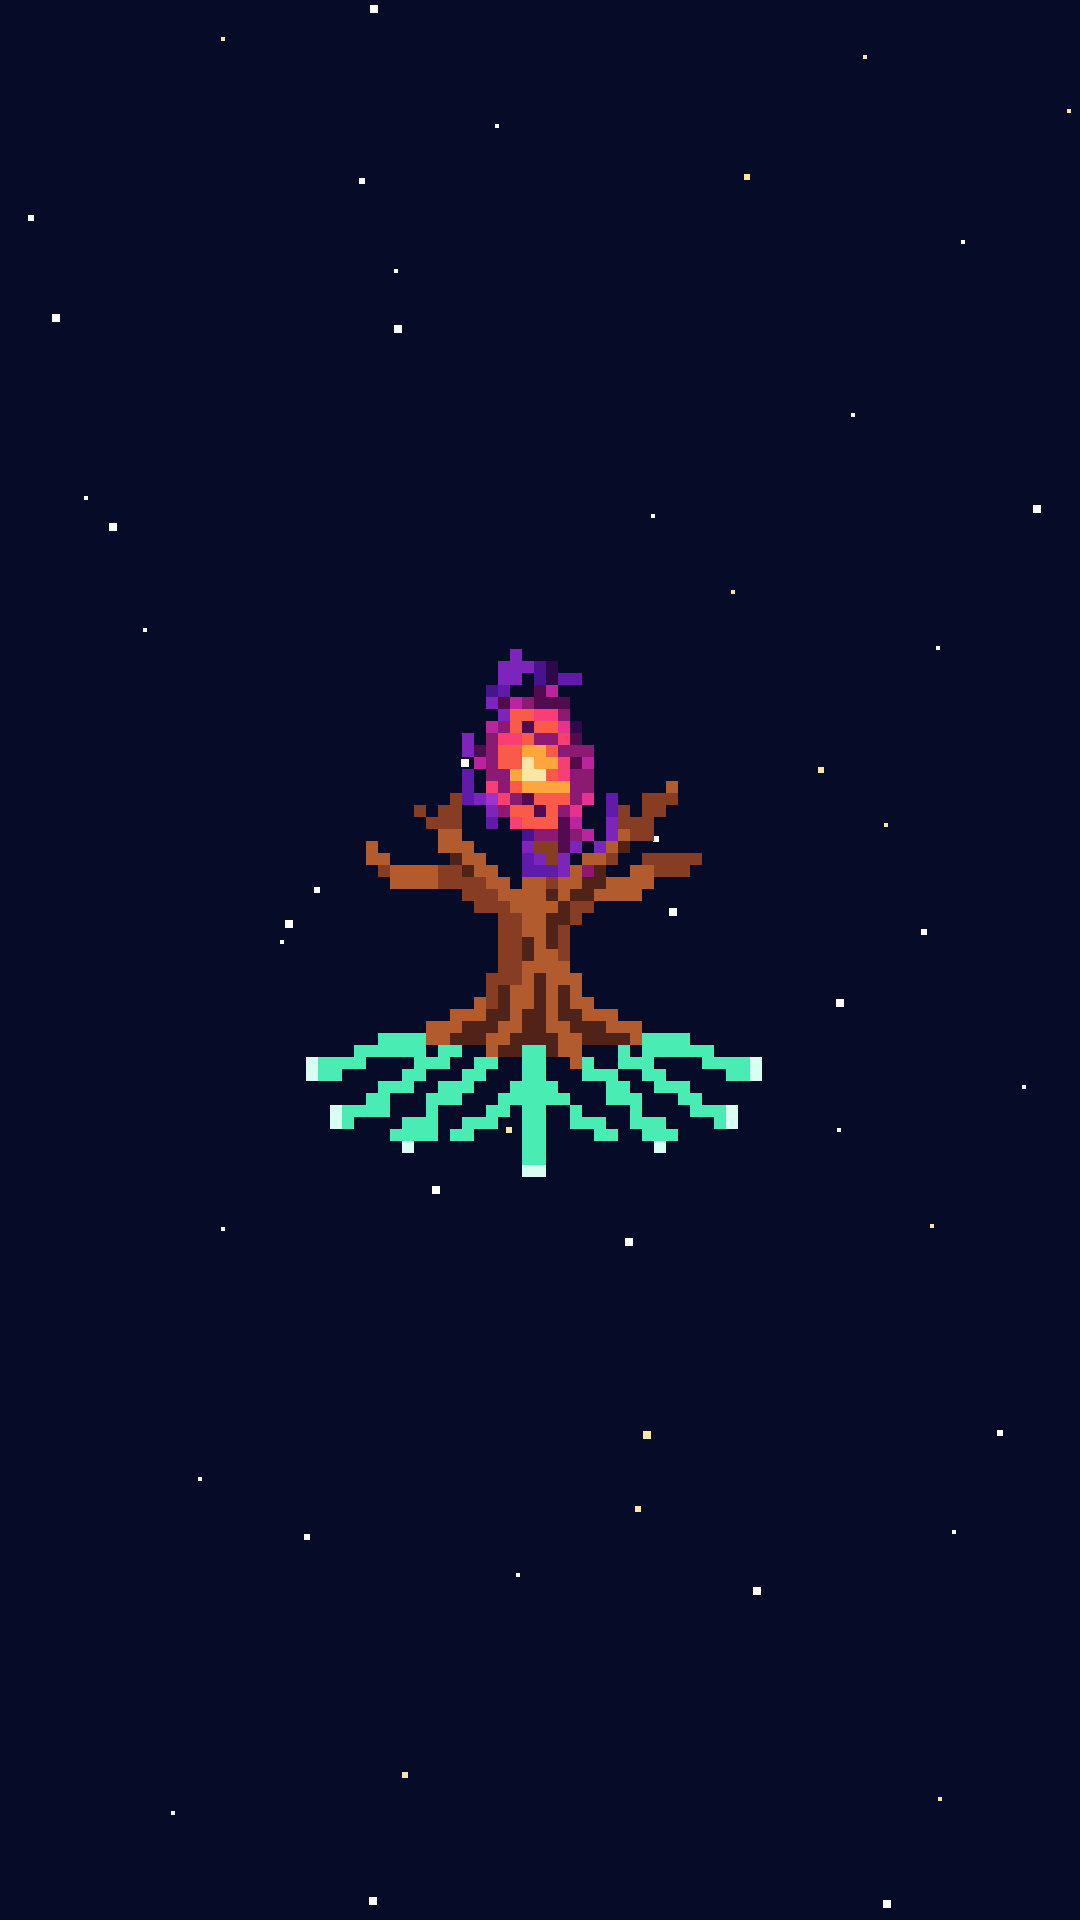
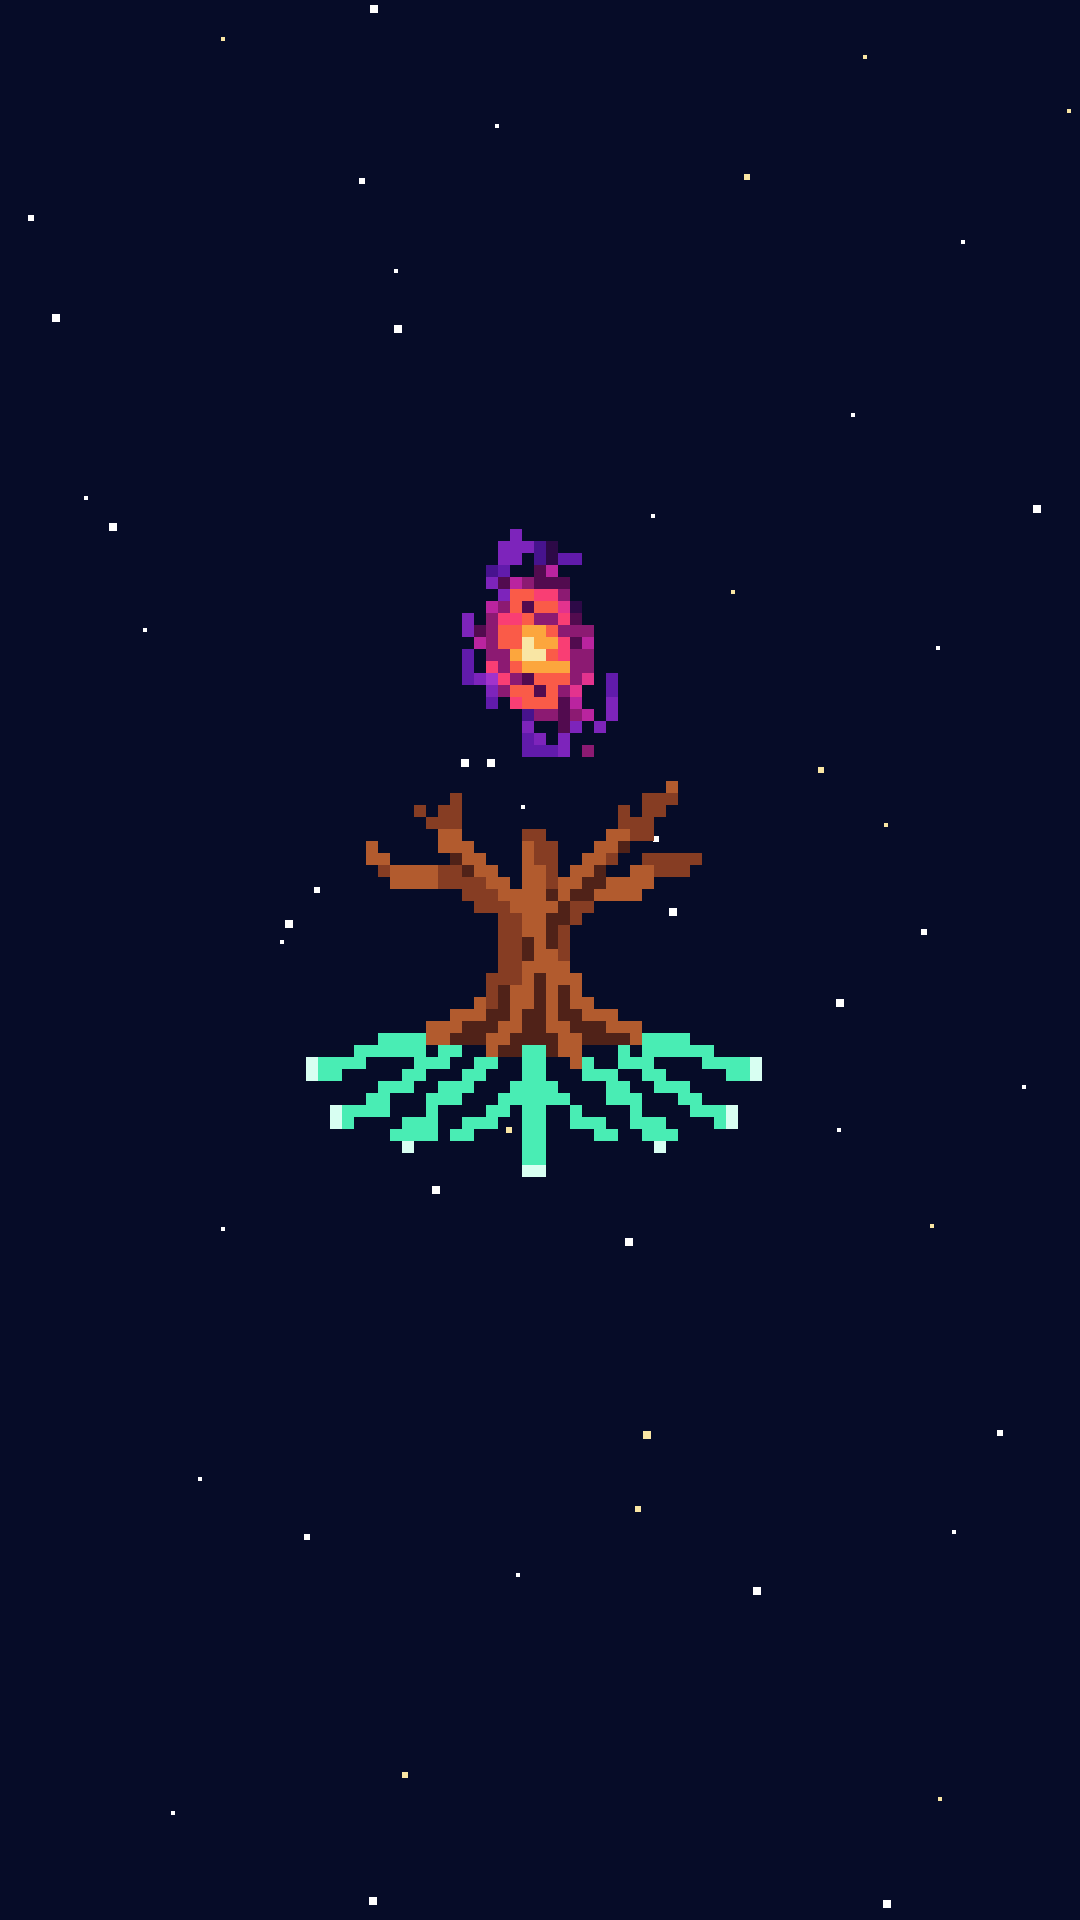
Outro (preview for approval): galaxy anchored above the branch tips while growing, grid-step slide into the PNG position
Claude-Session: https://claude.ai/code/session_013WemvDNR9m4hJpWYhjSima

Changed region(s): [[0.4278, 0.2812, 0.5806, 0.4688]]

diff --git a/meu-video/src/components/CuriosarioOutro.tsx b/meu-video/src/components/CuriosarioOutro.tsx
@@ -48,6 +48,10 @@ const GROW_END = 15;
 const STAGE_AT = [9, 11, 13, 15, 17, 19, 21, 23, 25, 27];
 const SPIN_START = STAGE_AT[0];
 const SPIN_END = STAGE_AT[STAGE_AT.length - 1];
+// while growing, the galaxy's bottom edge sits 2 pixels above the highest branch
+// tip; over the last ~0.15 s it slides down (whole grid steps) to the PNG position
+const GALAXY_GAP = 2;
+const SLIDE_START = SPIN_END - 4;
 const LAST = 28; // planet, then loose dots and cream sparkles (28-30)
 const COMPLETE = 30; // 1.0 s: tree complete -> root tips flash white for 2 frames
 const TITLE_START = 18; // 0.6 s: CURIOSÁRIO, letter by letter
@@ -90,7 +94,15 @@ const clamp = { extrapolateLeft: "clamp", extrapolateRight: "clamp" } as const;
 // ---------------------------------------------------------------------------
 type Kind = "root" | "trunk" | "planet" | "sparkle" | "dust" | "galaxy";
 type Px = { x: number; y: number; color: string; kind: Kind; on: number };
-type Logo = { px: Px[]; sparkles: number[]; tips: [number, number][]; x0: number; y0: number; w: number };
+type Logo = {
+  px: Px[];
+  sparkles: number[];
+  tips: [number, number][];
+  branchTop: number; // y (grid) of the highest branch tip
+  x0: number;
+  y0: number;
+  w: number;
+};
 
 const CORE = { x: 38.5, y: 28 }; // centre of the yellow galaxy core
 const CREAM = "249,230,164";
@@ -212,6 +224,7 @@ const buildLogo = (data: Uint8ClampedArray, size: number): Logo => {
     x0: Math.min(...xs),
     y0: Math.min(...px.map((p) => p.y)),
     w: Math.max(...xs) + 1 - Math.min(...xs),
+    branchTop: Math.min(...trunk.map((k) => xy(k)[1])),
   };
 };
 
@@ -250,20 +263,18 @@ const useLogo = () => {
 // ---------------------------------------------------------------------------
 // Galaxy: stage + rotation on the grid (inverse mapping, nearest neighbour)
 // ---------------------------------------------------------------------------
-// the first stages sit on the branch tips (bottom of the canopy) and the galaxy
-// rises to its own centre as it grows; the last stage is exactly the PNG galaxy
-const BRANCH_TOP_Y = 39;
-const STAGES = GALAXY_STAGES.map((rows, i, all) => {
+// every stage is placed (before rotation) centred on the PNG galaxy box; the
+// last stage at 0° is therefore exactly the PNG galaxy
+const STAGES = GALAXY_STAGES.map((rows) => {
   const w = rows[0].length;
   const h = rows.length;
   const cx = GALAXY_BOX.x0 + GALAXY_BOX.w / 2;
-  const k = i / (all.length - 1);
-  const cy = BRANCH_TOP_Y + (GALAXY_BOX.y0 + GALAXY_BOX.h / 2 - BRANCH_TOP_Y) * k;
+  const cy = GALAXY_BOX.y0 + GALAXY_BOX.h / 2;
   return { rows, w, h, ox: Math.round(cx - w / 2), oy: Math.round(cy - h / 2) };
 });
 
 // cells [x, y, colour] of the galaxy at this frame, in logo-grid coordinates
-const galaxyCells = (frame: number): [number, number, string][] => {
+const galaxyCells = (frame: number, branchTop: number): [number, number, string][] => {
   if (frame < SPIN_START) return [];
   let si = 0;
   STAGE_AT.forEach((at, i) => {
@@ -289,7 +300,17 @@ const galaxyCells = (frame: number): [number, number, string][] => {
       const ch = s.rows[sy][sx];
       if (ch !== ".") out.push([gx, gy, GALAXY_PALETTE[ch.charCodeAt(0) - 97]]);
     }
-  return out;
+  if (!out.length) return out;
+  // anchor: bottom edge of the squares actually drawn (after the spin) = branch
+  // tip - GALAXY_GAP, i.e. centreY = branchTop - 2 - currentHeight / 2
+  const bottom = Math.max(...out.map((c) => c[1])) + 1;
+  const lift = branchTop - GALAXY_GAP - bottom; // integer grid rows (negative = up)
+  const slide = interpolate(frame, [SLIDE_START, SPIN_END], [0, 1], {
+    ...clamp,
+    easing: Easing.inOut(Easing.quad),
+  });
+  const dy = Math.round(lift * (1 - slide)); // whole rows only; 0 on the last frame
+  return out.map(([x, y, c]) => [x, y + dy, c]);
 };
 
 // ---------------------------------------------------------------------------
@@ -386,7 +407,7 @@ const PixelLogo: React.FC<{ logo: Logo }> = ({ logo }) => {
     logo.px.forEach((p) => {
       if ((p.kind === "root" || p.kind === "trunk") && frame >= p.on) cell(p.x, p.y, p.color);
     });
-    for (const [x, y, c] of galaxyCells(frame)) cell(x, y, c);
+    for (const [x, y, c] of galaxyCells(frame, logo.branchTop)) cell(x, y, c);
     logo.px.forEach((p, i) => {
       if ((p.kind === "planet" || p.kind === "dust" || p.kind === "sparkle") && frame >= p.on && i !== off)
         cell(p.x, p.y, p.color);
